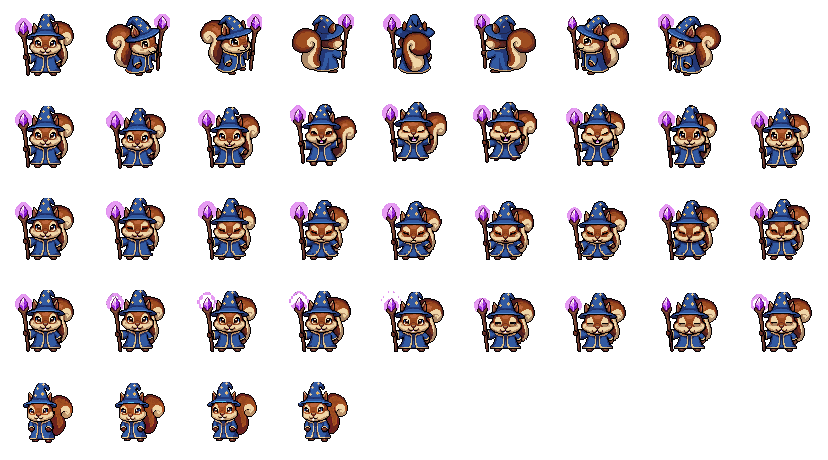
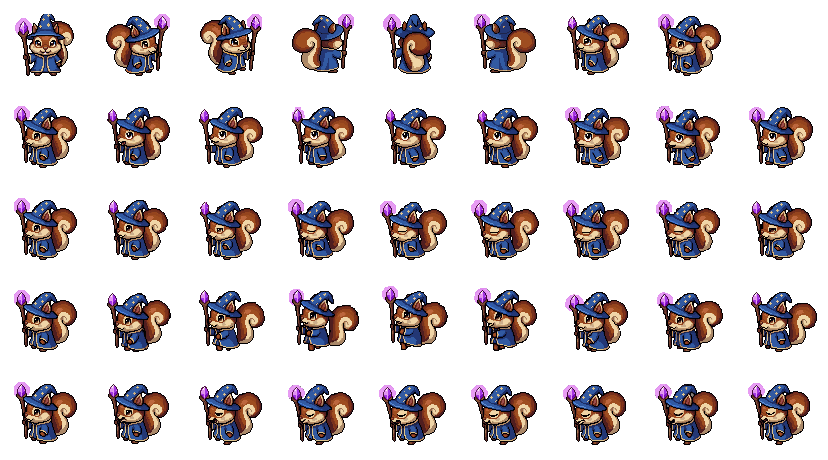
feat(pet): cría — animaciones en south-west, idle v3 que conserva el objeto
Claude-Session: https://claude.ai/code/session_01MAe5vgjS1WbkyRKC8pfRDf

diff --git a/src/lib/pet/sheets.gen.ts b/src/lib/pet/sheets.gen.ts
@@ -33,8 +33,8 @@ export const PET_SHEETS = {
       "rotationsRow": 0,
       "anims": {
         "idle": {
-          "row": 4,
-          "frames": 4
+          "row": 1,
+          "frames": 9
         },
         "sleepy": {
           "row": 2,
@@ -45,15 +45,15 @@ export const PET_SHEETS = {
           "frames": 9
         },
         "joy": {
-          "row": 1,
+          "row": 4,
           "frames": 9
         }
       }
     },
     "fighter": {
-      "cell": 96,
-      "width": 864,
-      "height": 480,
+      "cell": 100,
+      "width": 900,
+      "height": 500,
       "columns": 9,
       "directions": [
         "south",
@@ -68,19 +68,19 @@ export const PET_SHEETS = {
       "rotationsRow": 0,
       "anims": {
         "idle": {
-          "row": 2,
-          "frames": 4
-        },
-        "sleepy": {
-          "row": 4,
-          "frames": 9
-        },
-        "sad": {
           "row": 1,
           "frames": 9
         },
-        "joy": {
+        "sleepy": {
           "row": 3,
+          "frames": 9
+        },
+        "sad": {
+          "row": 2,
+          "frames": 9
+        },
+        "joy": {
+          "row": 4,
           "frames": 9
         }
       }
@@ -103,27 +103,27 @@ export const PET_SHEETS = {
       "rotationsRow": 0,
       "anims": {
         "idle": {
-          "row": 4,
-          "frames": 4
-        },
-        "sleepy": {
-          "row": 3,
+          "row": 1,
           "frames": 9
         },
-        "sad": {
+        "sleepy": {
           "row": 2,
           "frames": 9
         },
+        "sad": {
+          "row": 4,
+          "frames": 9
+        },
         "joy": {
-          "row": 1,
+          "row": 3,
           "frames": 9
         }
       }
     },
     "cleric": {
-      "cell": 92,
-      "width": 828,
-      "height": 460,
+      "cell": 84,
+      "width": 756,
+      "height": 420,
       "columns": 9,
       "directions": [
         "south",
@@ -139,18 +139,18 @@ export const PET_SHEETS = {
       "anims": {
         "idle": {
           "row": 3,
-          "frames": 4
+          "frames": 9
         },
         "sleepy": {
           "row": 2,
           "frames": 9
         },
         "sad": {
-          "row": 1,
+          "row": 4,
           "frames": 9
         },
         "joy": {
-          "row": 4,
+          "row": 1,
           "frames": 9
         }
       }
@@ -173,19 +173,19 @@ export const PET_SHEETS = {
       "rotationsRow": 0,
       "anims": {
         "idle": {
-          "row": 1,
-          "frames": 4
+          "row": 4,
+          "frames": 9
         },
         "sleepy": {
           "row": 2,
           "frames": 9
         },
         "sad": {
-          "row": 3,
+          "row": 1,
           "frames": 9
         },
         "joy": {
-          "row": 4,
+          "row": 3,
           "frames": 9
         }
       }
@@ -208,19 +208,19 @@ export const PET_SHEETS = {
       "rotationsRow": 0,
       "anims": {
         "idle": {
-          "row": 1,
-          "frames": 4
-        },
-        "sleepy": {
-          "row": 2,
+          "row": 4,
           "frames": 9
         },
-        "sad": {
+        "sleepy": {
           "row": 3,
           "frames": 9
         },
+        "sad": {
+          "row": 1,
+          "frames": 9
+        },
         "joy": {
-          "row": 4,
+          "row": 2,
           "frames": 9
         }
       }
